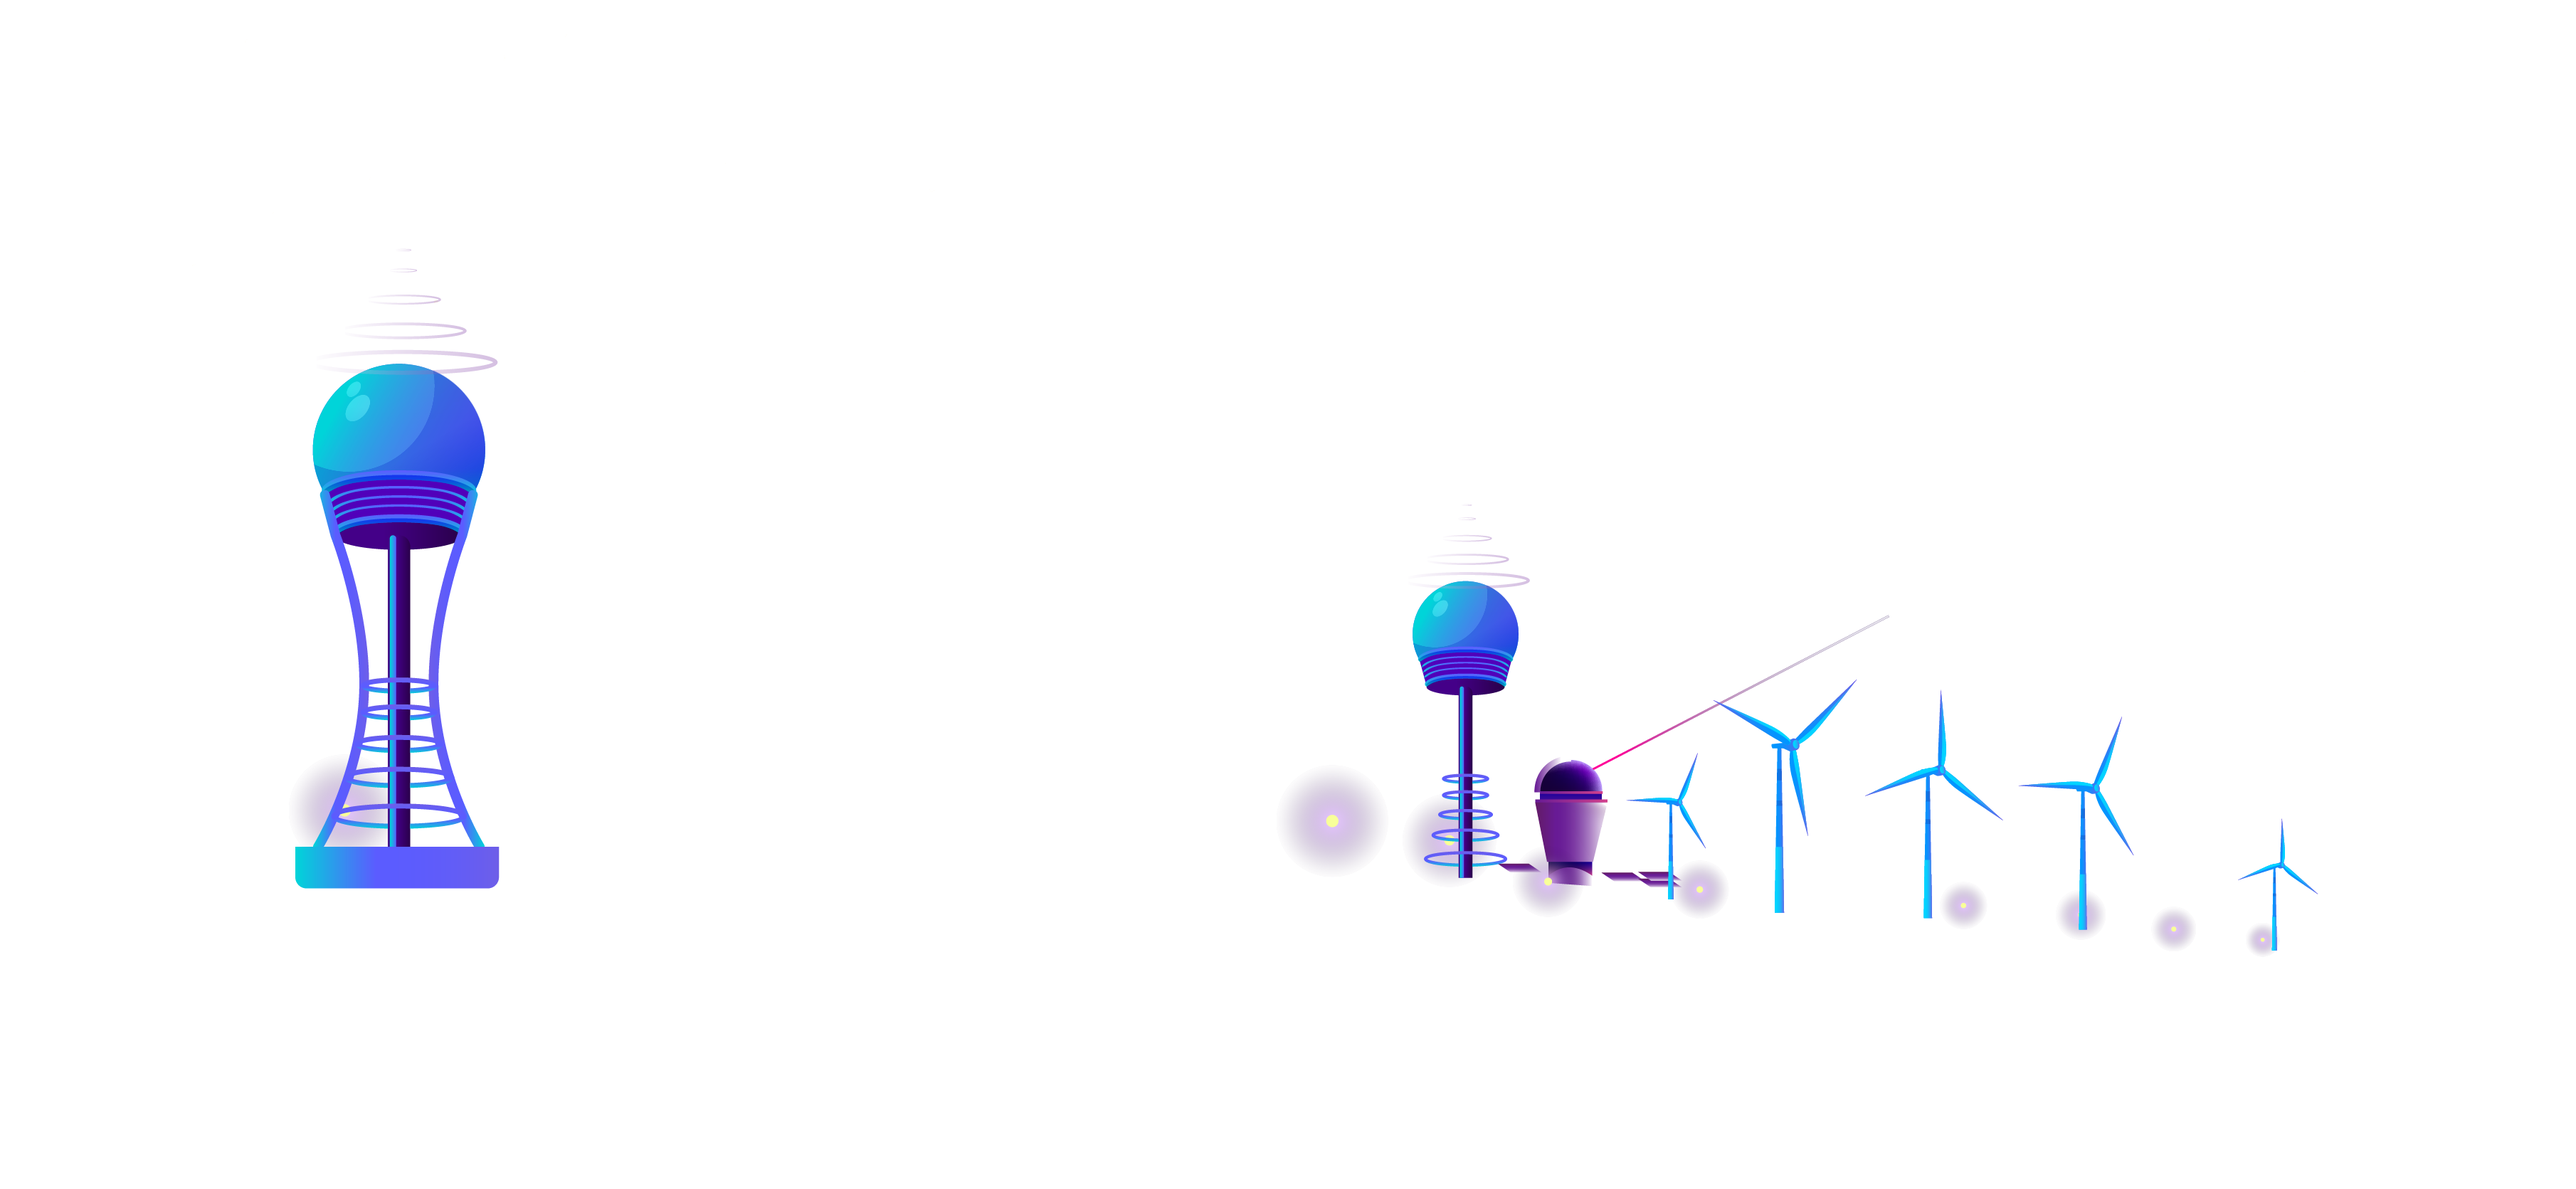
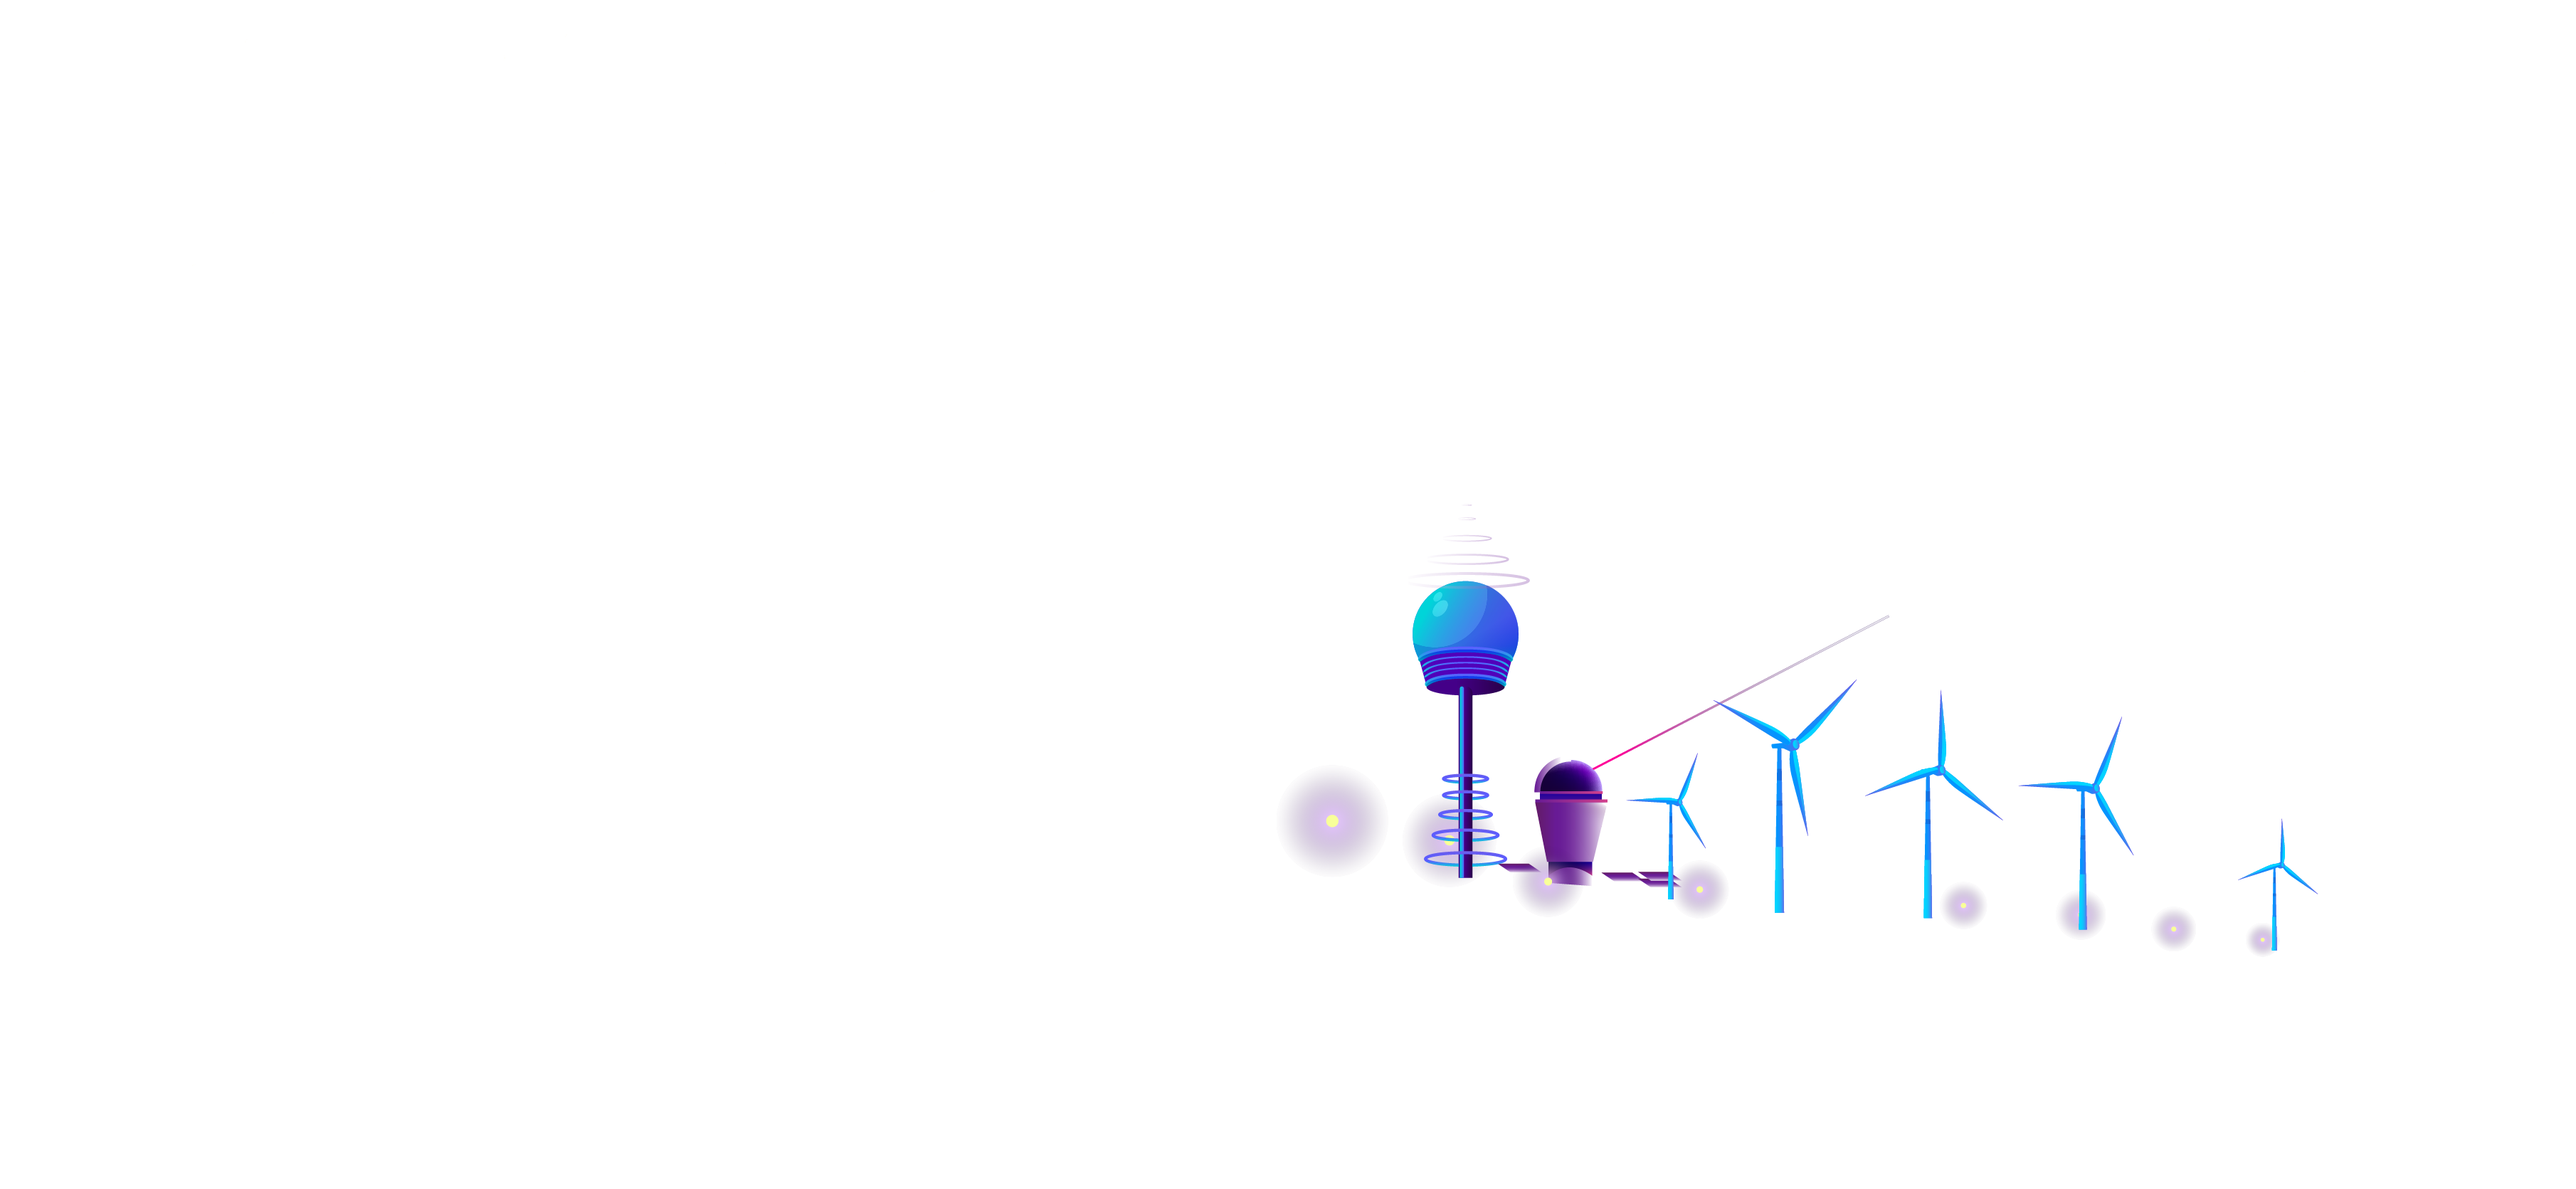
up

Changed region(s): [[0.0936, 0.249, 0.2185, 0.7469]]

diff --git a/src/layout/sections/dist/Landing.js b/src/layout/sections/dist/Landing.js
@@ -29,7 +29,7 @@ var Landing = /** @class */ (function (_super) {
             react_1["default"].createElement("section", { id: "particles-js" },
                 react_1["default"].createElement(scripts_1["default"], null)),
             react_1["default"].createElement("section", { id: "home", className: "landing-container" },
-                react_1["default"].createElement(image_1["default"], { className: "back-land-pic", alt: 'front-logo', src: "/images/back-5.png", width: "3620", height: "1671" }),
+                react_1["default"].createElement(image_1["default"], { id: "primary-front-bg", className: "back-land-pic", alt: 'front-logo', src: "/images/back-5.png", width: "3620", height: "1671" }),
                 react_1["default"].createElement("div", { className: "to-width to-height to-center home-specs" },
                     react_1["default"].createElement("div", { "data-aos": "fade-up", "data-aos-duration": "1500", "data-aos-anchor-placement": "bottom-bottom", className: 'home-welcome-border' },
                         react_1["default"].createElement("div", { className: 'home-welcome-message' },
@@ -37,6 +37,8 @@ var Landing = /** @class */ (function (_super) {
                             " Welcome to ",
                             react_1["default"].createElement("div", { className: 'color-effect' }, "CRYPTECH SERVICES. ")))),
                 react_1["default"].createElement(image_1["default"], { className: "front-land-pic reflect-v2", alt: 'front-logo', src: "/images/frontss.png", width: "3620", height: "1671" }),
+                react_1["default"].createElement(image_1["default"], { className: "mid-land-pic to-glow", alt: 'front-logo', src: "/images/moon-1.png", width: "3620", height: "1671" }),
+                react_1["default"].createElement(image_1["default"], { id: "secondary-front-bg", className: "mid-land-pic to-clouds", alt: 'front-logo', src: "/images/clouds.png", width: "3620", height: "1671" }),
                 react_1["default"].createElement(scripts_1["default"], null))));
     };
     ;

diff --git a/src/layout/sections/Landing.tsx b/src/layout/sections/Landing.tsx
@@ -20,8 +20,9 @@ export default class Landing extends Component<Props, State> {
     </section>
             
             <section id="home" className="landing-container">
-                <Image
-                    className="back-land-pic"
+                    <Image
+                id="primary-front-bg"
+                className="back-land-pic"
                 alt='front-logo'
                 src="/images/back-5.png"
                 width="3620" height="1671"
@@ -34,10 +35,25 @@ export default class Landing extends Component<Props, State> {
                     </div>
                     
 
-                <Image
-                    className="front-land-pic reflect-v2"
+                    <Image
+                className="front-land-pic reflect-v2"
                 alt='front-logo'
                 src="/images/frontss.png"
+                width="3620" height="1671"
+                    />
+                    
+                                        <Image
+                className="mid-land-pic to-glow"
+                alt='front-logo'
+                src="/images/moon-1.png"
+                width="3620" height="1671"
+                    />
+                    
+                    <Image
+                        id="secondary-front-bg"
+                className="mid-land-pic to-clouds"
+                alt='front-logo'
+                src="/images/clouds.png"
                 width="3620" height="1671"
                 />
                 <AllScripts />

diff --git a/src/styles/globals.css b/src/styles/globals.css
@@ -91,6 +91,14 @@ main {
   }
 }
 
+.to-glow {
+  filter: drop-shadow(0 0 30px white);
+}
+
+.to-clouds {
+  opacity: 75% !important;
+}
+
 .to-back {
   width: 362px;
   background-color: rgb(123, 143, 252, 0.5);
@@ -258,7 +266,7 @@ section {
 /*---------------------------------------------------------------*/
 
 .nav-main {
-  background: linear-gradient(to bottom, rgba(0, 0, 0, 0.75), transparent);
+  background: linear-gradient(to bottom, rgba(0, 0, 0, 1), transparent);
   position: fixed;
   width: 100%;
   z-index: 10;
@@ -326,11 +334,12 @@ section {
 
 .landing-container {
   background: radial-gradient(
-      circle at bottom,
-      transparent,
-      rgb(9, 10, 29) 100%
-    ),
-    url(/images/bbblurry.svg), url(/images/50961571.png);
+    circle at bottom,
+    transparent,
+    rgb(9, 10, 29) 100%
+  );
+
+  /* url(/images/bbblurry.svg), url(/images/50961571.png); */
   background-position: center;
   background-repeat: no-repeat;
   background-size: cover;
@@ -451,6 +460,15 @@ section {
   object-fit: cover;
   bottom: 0;
   z-index: 3;
+  filter: saturate(110%);
+}
+
+.mid-land-pic {
+  position: absolute;
+  left: 0;
+  object-fit: cover;
+  bottom: 10rem;
+  z-index: 1;
 }
 
 .back-land-pic {
@@ -458,7 +476,8 @@ section {
   left: 0;
   object-fit: cover;
   bottom: 0;
-  z-index: -1;
+  z-index: 1;
+  opacity: 50%;
 }
 
 .sales-land-pic {

diff --git a/public/scripts/dist/parallax.dev.js b/public/scripts/dist/parallax.dev.js
@@ -1,0 +1,9 @@
+"use strict";
+
+var secondary_front_bg = document.getElementById("secondary-front-bg");
+var primary_front_bg = document.getElementById("primary-front-bg");
+window.addEventListener("scroll", function () {
+  var value = window.scrollY;
+  secondary_front_bg.style.left = value * 0.3 + "px";
+  primary_front_bg.style.left = value * -0.1 + "px";
+});

diff --git a/public/scripts/parallax.js b/public/scripts/parallax.js
@@ -1,0 +1,8 @@
+let secondary_front_bg = document.getElementById("secondary-front-bg");
+let primary_front_bg = document.getElementById("primary-front-bg");
+
+window.addEventListener("scroll", function () {
+  let value = window.scrollY;
+  secondary_front_bg.style.left = value * 0.3 + "px";
+  primary_front_bg.style.left = value * -0.1 + "px";
+});

diff --git a/src/layout/components/scripts.js b/src/layout/components/scripts.js
@@ -9,6 +9,7 @@ export default function AllScripts() {
         type="text/javascript"
       />
       <Script src="/scripts/particles.js" as="script" type="text/javascript" />
+      <Script src="/scripts/parallax.js" as="script" type="text/javascript" />
     </>
   );
 }
